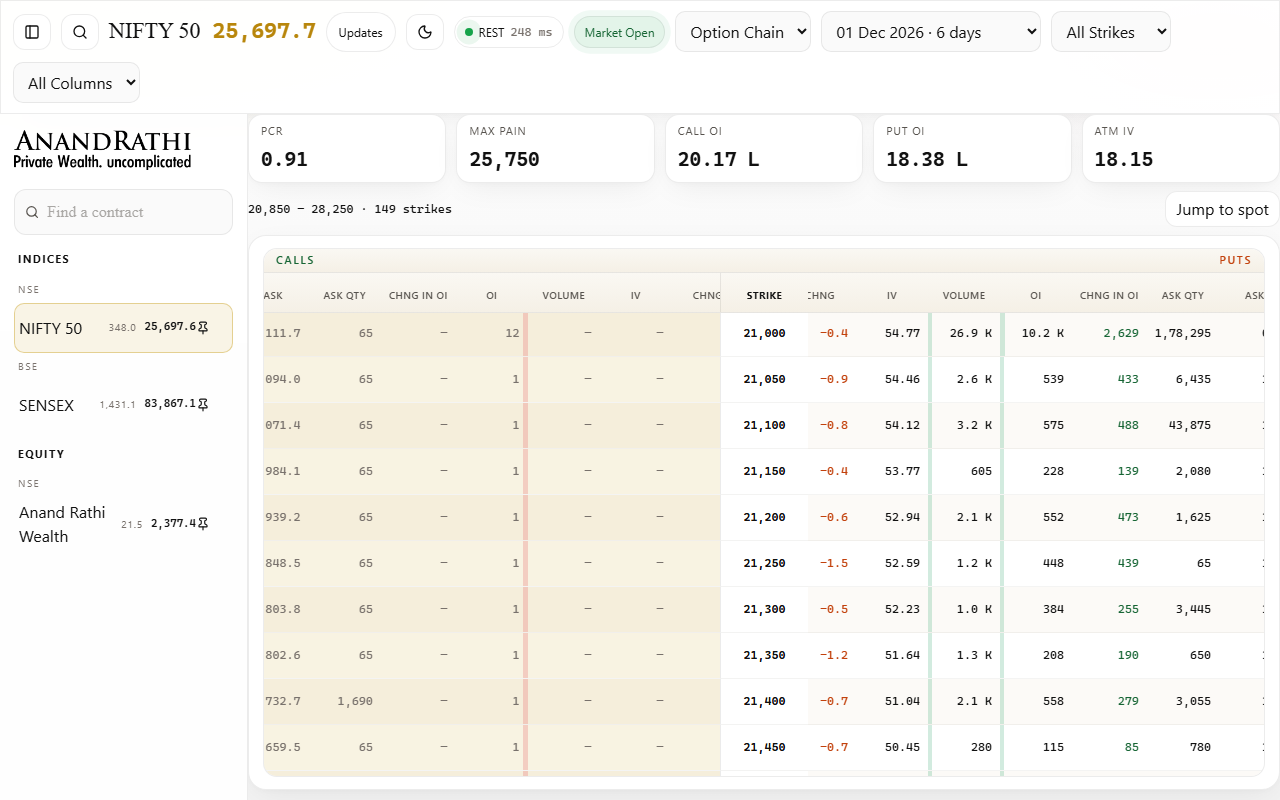
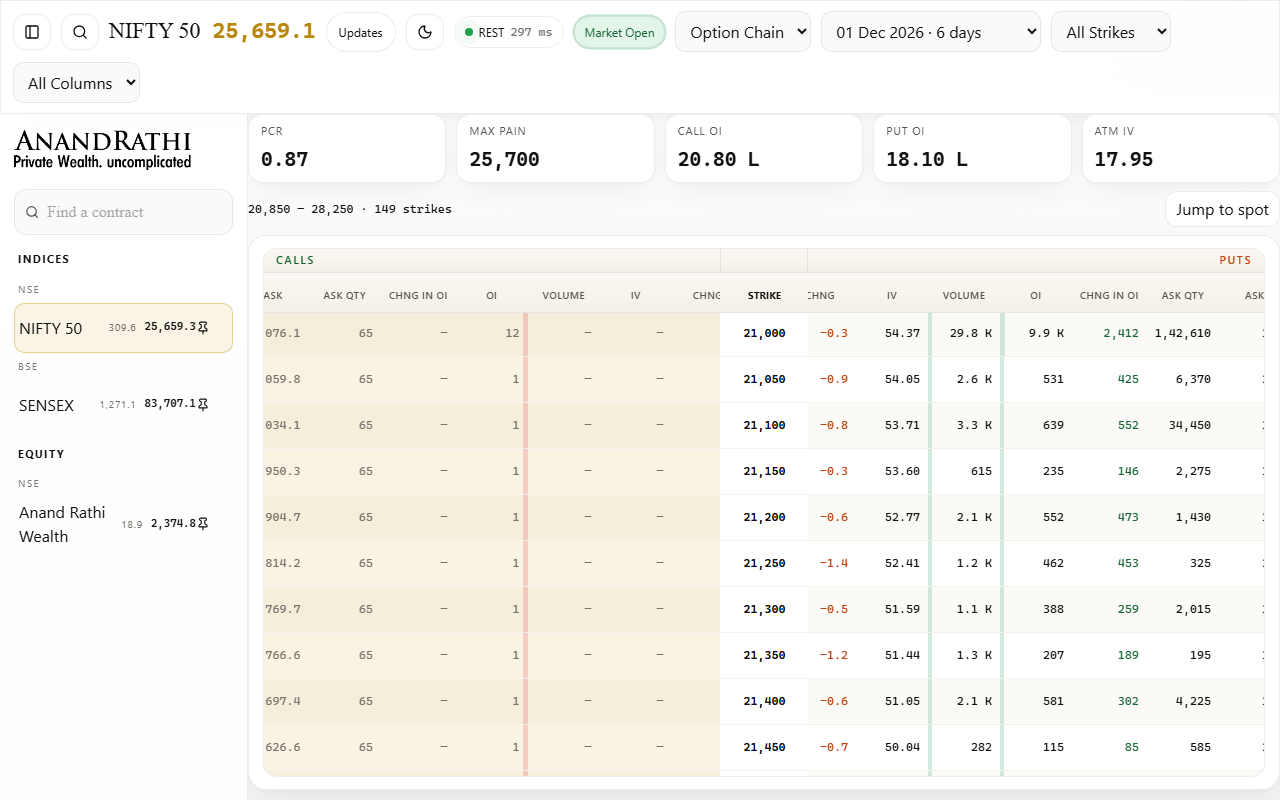
Give Custom and the option chain their own Updates panels.
Keep the strike rails continuous, and keep Jump to spot under the phone book so it does not cover a price.

diff --git a/web/src/app/globals.css b/web/src/app/globals.css
@@ -190,6 +190,8 @@ html.dark .bg-mesh::before {
   border-radius: 14px;
   border: 1px solid var(--ar-border);
   background: var(--ar-surface);
+  background-clip: padding-box;
+  overscroll-behavior: contain;
 }
 
 .chain-scroll[data-density="custom"] .chain-table {
@@ -394,10 +396,10 @@ html.dark .chain-scroll .chain-table thead tr.side-labels .pe-zone {
 @keyframes atm-glow {
   0%,
   100% {
-    box-shadow: inset 0 0 0 1px rgba(212, 178, 76, 0.4);
+    box-shadow: inset 0 0 0 1px rgba(212, 178, 76, 0.45);
   }
   50% {
-    box-shadow: inset 0 0 0 1px rgba(212, 178, 76, 1), 0 0 18px rgba(212, 178, 76, 0.28);
+    box-shadow: inset 0 0 0 2px rgba(212, 178, 76, 1);
   }
 }
 
@@ -870,10 +872,14 @@ html.dark .chain-row.is-zero td {
 }
 
 .updates-card {
+  position: relative;
+  z-index: 1;
   width: min(440px, 100%);
+  max-height: min(78dvh, 640px);
+  overflow: auto;
   border-radius: 20px;
   border: 1px solid var(--ar-border);
-  background: var(--ar-surface);
+  background-color: var(--ar-surface);
   box-shadow: var(--ar-shadow);
   padding: 18px;
 }
@@ -912,6 +918,10 @@ html.dark .chain-row.is-zero td {
   grid-template-columns: 28px 1fr;
   gap: 10px;
   align-items: center;
+  padding: 8px 10px;
+  border: 1px solid var(--ar-border);
+  border-radius: 12px;
+  background: var(--ar-panel);
 }
 
 .updates-card strong,
@@ -939,6 +949,11 @@ html.dark .chain-row.is-zero td {
 .shade-up { background: rgba(22, 163, 74, 0.45); }
 .shade-down { background: rgba(194, 65, 12, 0.4); }
 .shade-itm { background: rgba(212, 178, 76, 0.22); border: 1px solid rgba(212, 178, 76, 0.5); }
+.shade-price { background: var(--ar-ink); }
+.shade-change { background: linear-gradient(180deg, #166534 50%, #c2410c 50%); }
+.shade-expiry { background: var(--ar-surface); border: 1px solid var(--ar-border); }
+.shade-atm { background: rgba(212, 178, 76, 0.22); border: 1px solid rgba(212, 178, 76, 0.85); }
+.shade-quote { background: var(--ar-panel); border: 1px solid var(--ar-border); }
 
 .quote-ltp {
   margin: 0 0 10px;
@@ -1953,6 +1968,19 @@ html.dark .is-itm {
   }
 }
 
+@media (max-width: 700px) {
+  .board {
+    position: relative;
+    padding-bottom: 52px;
+  }
+
+  .chain-scroll {
+    height: auto;
+    padding-bottom: 0;
+    scroll-padding-bottom: 12px;
+  }
+}
+
 @media (max-width: 360px) {
   .toolbar {
     gap: 4px;
@@ -1989,6 +2017,11 @@ html.dark .is-itm {
   text-transform: uppercase;
 }
 
+.inward-captions .strike-gap {
+  align-self: stretch;
+  box-shadow: inset 1px 0 0 var(--ar-border), inset -1px 0 0 var(--ar-border);
+}
+
 .inward-captions .ce-zone {
   padding-left: 12px;
   color: #166534;
@@ -2021,10 +2054,18 @@ html.dark .inward-captions .pe-zone {
   min-width: 0;
   min-height: 0;
   overscroll-behavior: contain;
+  -webkit-overflow-scrolling: touch;
+  scroll-behavior: auto;
 }
 
 .inward-pane.mid {
   overflow-x: hidden;
+  box-shadow: inset 1px 0 0 var(--ar-border), inset -1px 0 0 var(--ar-border);
+}
+
+.inward .chain-table .strike-cell {
+  border-left: 0;
+  border-right: 0;
 }
 
 .inward-pane .chain-table {
@@ -2083,4 +2124,10 @@ html.dark .inward-captions .pe-zone {
   vertical-align: middle;
   padding-left: 0 !important;
   padding-right: 0 !important;
+  font-variant-numeric: tabular-nums;
+  letter-spacing: 0;
+}
+
+.chain-table tbody tr:last-child td {
+  border-bottom: 0;
 }

diff --git a/web/e2e/desk.spec.ts b/web/e2e/desk.spec.ts
@@ -10,12 +10,21 @@ async function waitForBook(page: Page) {
   await expect(page.locator(".spot-inline")).not.toHaveText("—", { timeout: 70_000 });
   await expect(page.locator(".chain-row").first()).toBeVisible();
   await page.locator(".toolbar").getByRole("button", { name: "Updates" }).click();
-  const shades = page.getByRole("dialog", { name: "Volume shades" });
-  await expect(shades).toBeVisible();
-  await expect(shades).toContainText("High volume");
-  await expect(shades).toContainText("Zero volume");
-  await shades.getByRole("button", { name: "Close updates" }).click();
-  await expect(shades).toBeHidden();
+  const guide = page.getByRole("dialog", { name: "Custom board" });
+  await expect(guide).toBeVisible();
+  await expect(guide).toContainText("Last price");
+  await expect(guide).toContainText("nearest expiry");
+  await expect(guide).not.toContainText("High volume");
+  const width = page.viewportSize()?.width ?? 0;
+  if (width >= 1400 || width <= 400) {
+    fs.mkdirSync(shotDir, { recursive: true });
+    await page.screenshot({
+      path: path.join(shotDir, width >= 1400 ? "updates-custom-desktop.png" : "updates-custom-phone.png"),
+      fullPage: false,
+    });
+  }
+  await guide.getByRole("button", { name: "Close updates" }).click();
+  await expect(guide).toBeHidden();
   await expect(page.locator(".session-pill")).toHaveText(/Market Open|Market Closed|Pre-Open|Market Holiday/);
 }
 
@@ -85,7 +94,7 @@ test("desk, density, volume shade, stream, and motion", async ({ page }, testInf
         kpiFits: kpis instanceof HTMLElement && kpis.scrollWidth <= kpis.clientWidth + 2,
       };
     });
-    expect(fitted.chainShare).toBeGreaterThanOrEqual(0.8);
+    expect(fitted.chainShare).toBeGreaterThanOrEqual(0.75);
     const labels = await page.evaluate(() => {
       const open = (selector: string) => {
         const el = document.querySelector(selector);
@@ -185,6 +194,21 @@ test("desk, density, volume shade, stream, and motion", async ({ page }, testInf
   });
   expect(atmGap).toBeLessThan(240);
   await page.getByLabel("View").selectOption("chain");
+  await page.locator(".toolbar").getByRole("button", { name: "Updates" }).click();
+  const shades = page.getByRole("dialog", { name: "Volume shades" });
+  await expect(shades).toBeVisible();
+  await expect(shades).toContainText("High volume");
+  await expect(shades).toContainText("Zero volume");
+  await expect(shades).not.toContainText("nearest expiry");
+  const chainWidth = testInfo.project.name === "desktop" || testInfo.project.name === "phone" ? page.viewportSize()?.width ?? 0 : 0;
+  if (chainWidth >= 1400 || (chainWidth > 0 && chainWidth <= 400)) {
+    await page.screenshot({
+      path: path.join(shotDir, chainWidth >= 1400 ? "updates-chain-desktop.png" : "updates-chain-phone.png"),
+      fullPage: false,
+    });
+  }
+  await shades.getByRole("button", { name: "Close updates" }).click();
+  await expect(shades).toBeHidden();
   await expect(page.getByLabel("Strikes")).toHaveValue("near");
   const density = page.getByTestId("density-select");
   await expect(density).toHaveValue("focus");

diff --git a/web/src/components/updates-dialog.tsx b/web/src/components/updates-dialog.tsx
@@ -3,6 +3,14 @@
 import { AnimatePresence, motion } from "framer-motion";
 import { X } from "lucide-react";
 
+const CUSTOM = [
+  { swatch: "price", name: "Last price", detail: "Each cell is the last price, shown to one decimal." },
+  { swatch: "change", name: "Change", detail: "The figure under the price is today's change. Green is up, red is down." },
+  { swatch: "expiry", name: "Expiries", detail: "Calls sit on the left, far date to near. Puts sit on the right, near date to far. The nearest expiry is against the strike." },
+  { swatch: "atm", name: "At the money", detail: "The strike nearest the live price is outlined in gold. A spot line sits between the two surrounding strikes." },
+  { swatch: "quote", name: "Quote", detail: "Click a price to open Calls and Puts for that strike." },
+] as const;
+
 const SHADES = [
   { swatch: "high", name: "High volume", detail: "LTP in the top 20% of contracts traded on this chain." },
   { swatch: "low", name: "Low volume", detail: "LTP in the bottom 20% of contracts that actually traded." },
@@ -12,7 +20,17 @@ const SHADES = [
   { swatch: "itm", name: "ITM", detail: "In the money. Calls below spot, puts above spot." },
 ] as const;
 
-export function UpdatesDialog({ open, onClose }: { open: boolean; onClose: () => void }) {
+export function UpdatesDialog({
+  open,
+  view,
+  onClose,
+}: {
+  open: boolean;
+  view: "custom" | "chain";
+  onClose: () => void;
+}) {
+  const custom = view === "custom";
+  const items = custom ? CUSTOM : SHADES;
   return (
     <AnimatePresence>
       {open ? (
@@ -26,7 +44,7 @@ export function UpdatesDialog({ open, onClose }: { open: boolean; onClose: () =>
           <motion.section
             className="updates-card"
             role="dialog"
-            aria-label="Volume shades"
+            aria-label={custom ? "Custom board" : "Volume shades"}
             initial={{ opacity: 0, y: 16, scale: 0.98 }}
             animate={{ opacity: 1, y: 0, scale: 1 }}
             exit={{ opacity: 0, y: 10, scale: 0.98 }}
@@ -35,15 +53,15 @@ export function UpdatesDialog({ open, onClose }: { open: boolean; onClose: () =>
           >
             <header>
               <div>
-                <p>Updates</p>
-                <h2>Volume shades</h2>
+                <p>{custom ? "Custom" : "Option chain"}</p>
+                <h2>{custom ? "Reading the board" : "Volume shades"}</h2>
               </div>
               <button className="icon-btn" type="button" onClick={onClose} aria-label="Close updates">
                 <X className="h-4 w-4" />
               </button>
             </header>
             <ul>
-              {SHADES.map((item, index) => (
+              {items.map((item, index) => (
                 <motion.li
                   key={item.name}
                   initial={{ opacity: 0, x: 8 }}

diff --git a/web/src/components/terminal.tsx b/web/src/components/terminal.tsx
@@ -388,7 +388,7 @@ export function Terminal() {
         </div>
       </section>
       <QuoteSheet row={picked} onClose={() => setPicked(null)} />
-      <UpdatesDialog open={updatesOpen} onClose={() => setUpdatesOpen(false)} />
+      <UpdatesDialog open={updatesOpen} view={view} onClose={() => setUpdatesOpen(false)} />
       <CommandPalette
         open={paletteOpen}
         instruments={instruments}

diff --git a/web/docs/interface.md b/web/docs/interface.md
@@ -8,7 +8,7 @@ The expiry menu groups Weekly and Monthly and shows the days left. Past expiries
 
 ## Header
 
-The header spans the width of the desk, above the sidebar. It opens on Custom. Option Chain is the single-expiry book. Updates opens the volume key. The feed chip says REST, Closed, Delayed, Waiting, Connecting, or Stale. It does not say Live while the market is closed.
+The header spans the width of the desk, above the sidebar. It opens on Custom. Option Chain is the single-expiry book. Updates on Custom explains the board. Updates on Option Chain opens the volume key. The feed chip says REST, Closed, Delayed, Waiting, Connecting, or Stale. It does not say Live while the market is closed.
 
 Custom uses the same Calls, Strike and Puts layout, the same price and change format, the spot line, and Jump to spot. Each column is one upcoming expiry. The count runs from one expiry through every live expiry. The nearest expiry sits against the strike.
 
@@ -24,4 +24,4 @@ Spot Focus keeps the 18 strikes below the at-the-money strike and the 18 above i
 
 ## Mobile
 
-Focus fits the width. On a phone the chain fills the screen under a header that wraps, so the contract, feed, session, and every menu are fully visible. The summary tiles stay off that screen. The strike stays in the row. When Custom has more expiries than fit, or Option Chain is on All Columns, the strike column stays fixed in the centre. Call columns scroll on the left and put columns on the right, starting with the nearest column against the strike. The contract list opens from the header and closes with Back.
+Focus fits the width. On a phone the chain fills the screen under a header that wraps, so the contract, feed, session, and every menu are fully visible. Jump to spot sits under the book, so it does not cover a price. The summary tiles stay off that screen. The strike stays in the row. When Custom has more expiries than fit, or Option Chain is on All Columns, the strike column stays fixed in the centre. Call columns scroll on the left and put columns on the right, starting with the nearest column against the strike. The contract list opens from the header and closes with Back.
